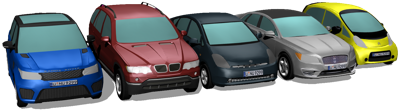
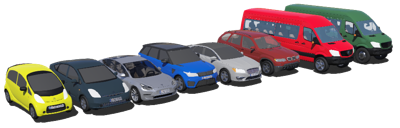
Update doc.

diff --git a/docs/automobile/car.md b/docs/automobile/car.md
@@ -100,13 +100,16 @@ For the three other sensor slots, the positions are different for each model (be
 
 %figure "Positions of the car sensor slots"
 
-| Model              | Front slot translation | Top slot translation | Rear slot translation |
-| ------------------ | ---------------------- | -------------------- | --------------------- |
-| BmwX5              | 0.0 0.45 3.85          | 0.0 1.45 1.0         | 0.0 0.3 -1.0          |
-| LincolnMKZ         | 0.0 0.142 3.944        | 0.0 1.16 1.11        | 0.0 0.33 -1.06        |
-| RangeRoverSportSVR | 0.0 0.5 3.5            | 0.0 1.3 1.4          | 0.0 0.33 -1.06        |
-| CitroenCZero       | 0.0 0.05 3.075         | 0.0 1.35 1.075       | 0.0 0.3 -0.425        |
-| ToyotaPrius        | 0.0 0.40 3.635         | 0.0 1.30 1.1         | 0.0 0.3 -0.850        |
+| Model                | Front slot translation | Top slot translation | Rear slot translation |
+| -------------------- | ---------------------- | -------------------- | --------------------- |
+| BmwX5                | 0.0 0.45 3.85          | 0.0 1.45 1.0         | 0.0 0.3 -1.0          |
+| LincolnMKZ           | 0.0 0.142 3.944        | 0.0 1.16 1.11        | 0.0 0.33 -1.06        |
+| RangeRoverSportSVR   | 0.0 0.5 3.5            | 0.0 1.3 1.4          | 0.0 0.33 -1.06        |
+| CitroenCZero         | 0.0 0.05 3.075         | 0.0 1.35 1.075       | 0.0 0.3 -0.425        |
+| ToyotaPrius          | 0.0 0.40 3.635         | 0.0 1.30 1.1         | 0.0 0.3 -0.850        |
+| TeslaModel3          | 0.0 0.142 3.79         | 0.0 1.16 1.11        | 0.0 0.2 -1.05         |
+| MercedesBenzSprinter | 0.0 0.47 5.31          | 0.0 2.3 2.99         | 0.0 0.19 -1.62        |
+| GreenPowerEVStar     | 0.0 0.47 5.31          | 0.0 2.3 2.99         | 0.0 0.19 -1.62        |
 
 %end
 
@@ -174,11 +177,14 @@ It is not recommended to use the `void` controller for efficiency reasons.
 CarSimple is not an actual PROTO but defines the common structure of all the 'simple' versions of the cars.
 The different simple versions of the car PROTO nodes represent the different models of [Car](#car):
 
-- the Sport SVR from Range Rover
-- the X5 from BMW
-- the Prius from Toyota
-- the MKZ from Lincoln
-- the C-Zero from Citroen
+- the Sport SVR from Range Rover.
+- the X5 from BMW.
+- the Prius from Toyota.
+- the MKZ from Lincoln.
+- the C-Zero from Citroen.
+- the Model 3 from Tesla.
+- the Sprinter from Mercedes-Benz.
+- the EV Start from GreenPower.
 
 %figure "Models of cars created using the CarSimple PROTO"
 
